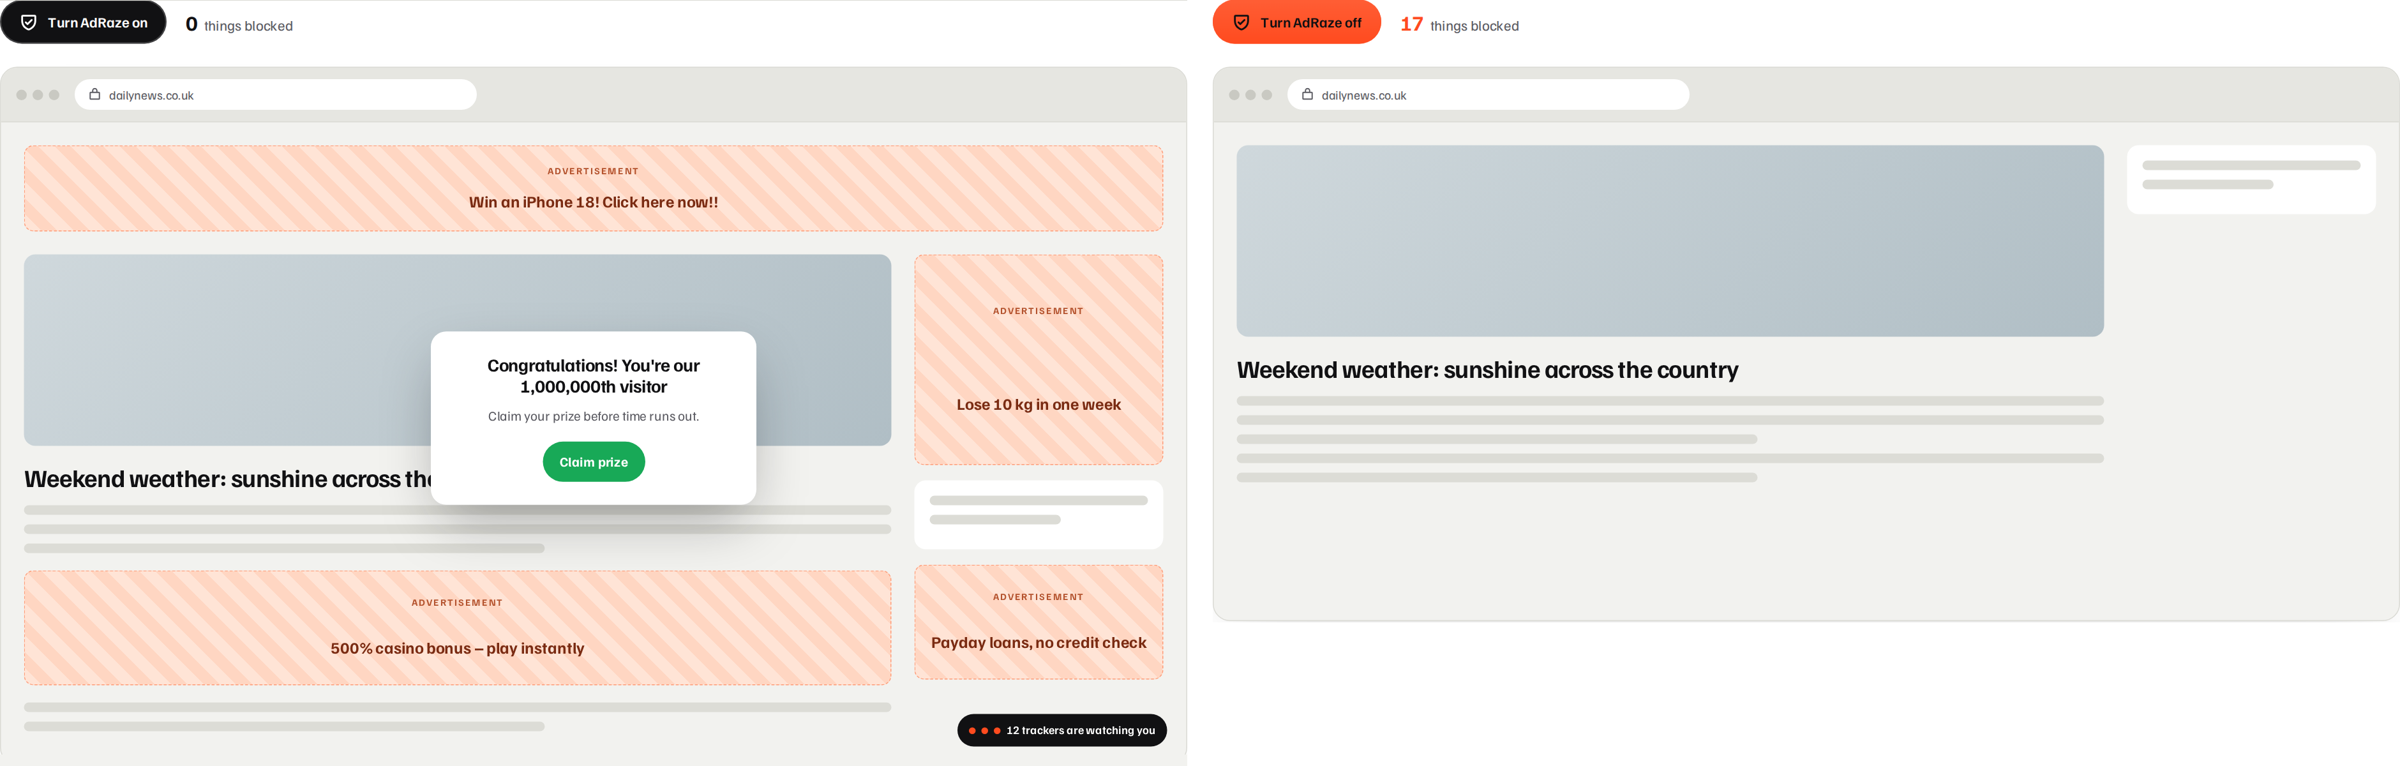
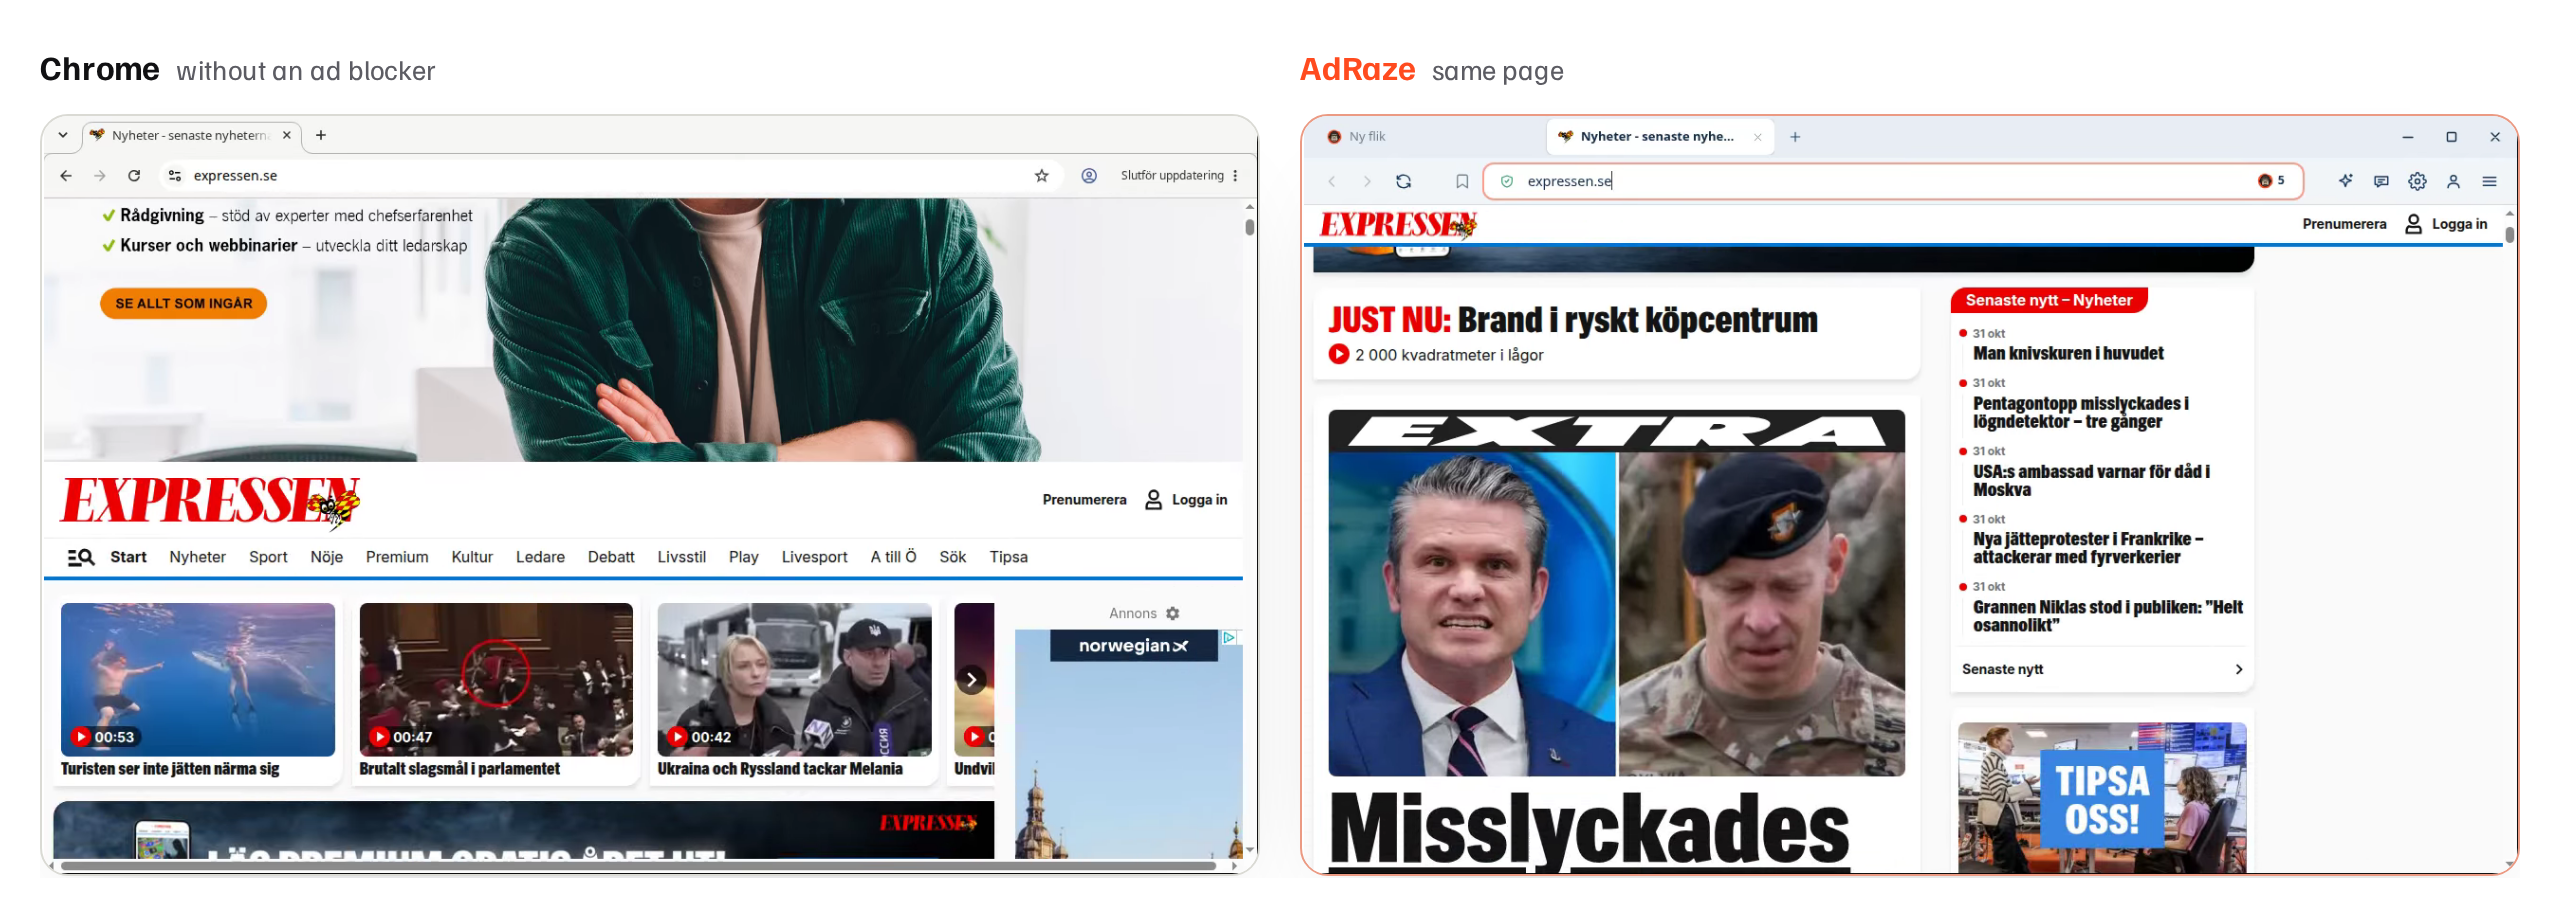
README: ny före/efter-bild från sajten

diff --git a/README.md b/README.md
@@ -25,7 +25,7 @@ Most ad blockers hide banners. AdRaze also goes after the things that make the w
 It is built on Chrome's native `declarativeNetRequest` engine, so blocking happens inside the browser before a request is even sent. No remote servers, no accounts, no telemetry.
 
 <div align="center">
-<img src=".github/assets/demo-before-after.png" alt="Before and after: a news page full of ads, a popup and trackers, and the same page with AdRaze turned on" width="860">
+<img src=".github/assets/demo-before-after.png" alt="The same news site in Chrome without an ad blocker and in AdRaze: the ads are gone" width="860">
 </div>
 
 ## Features
